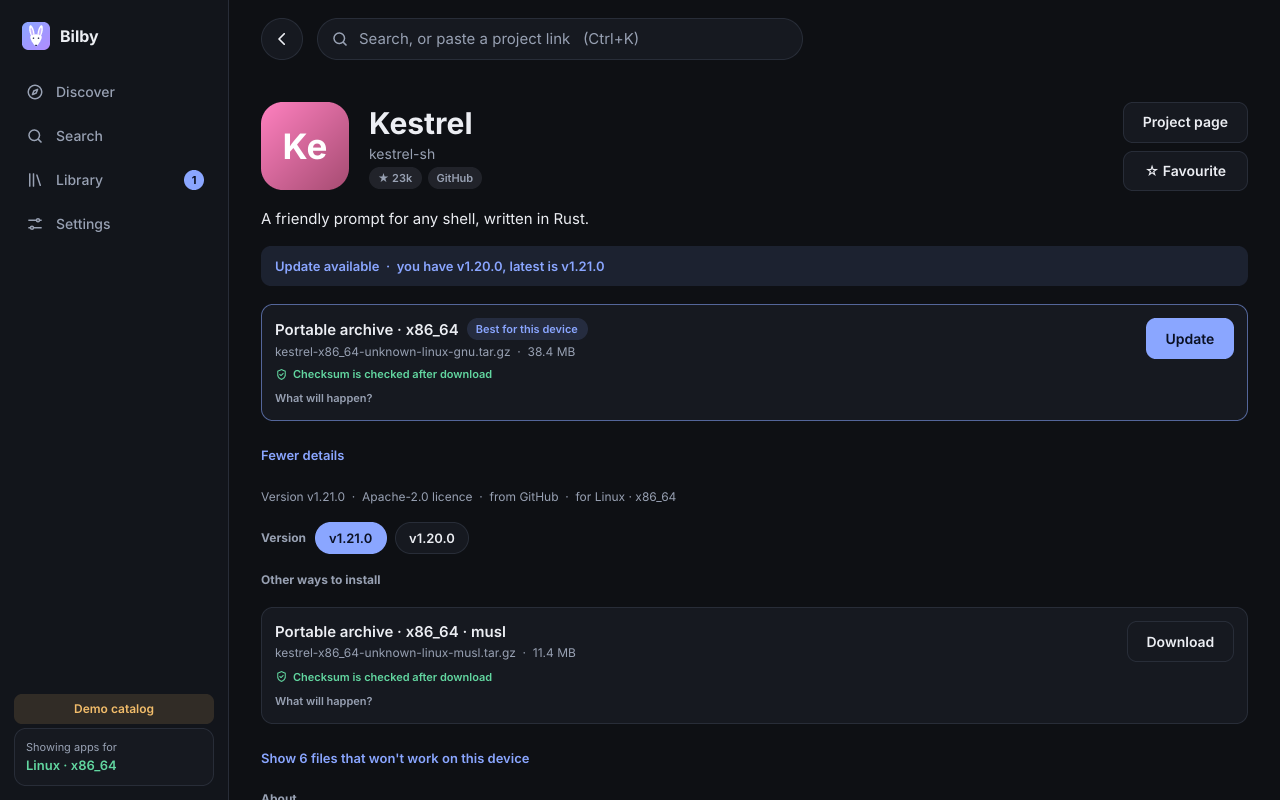
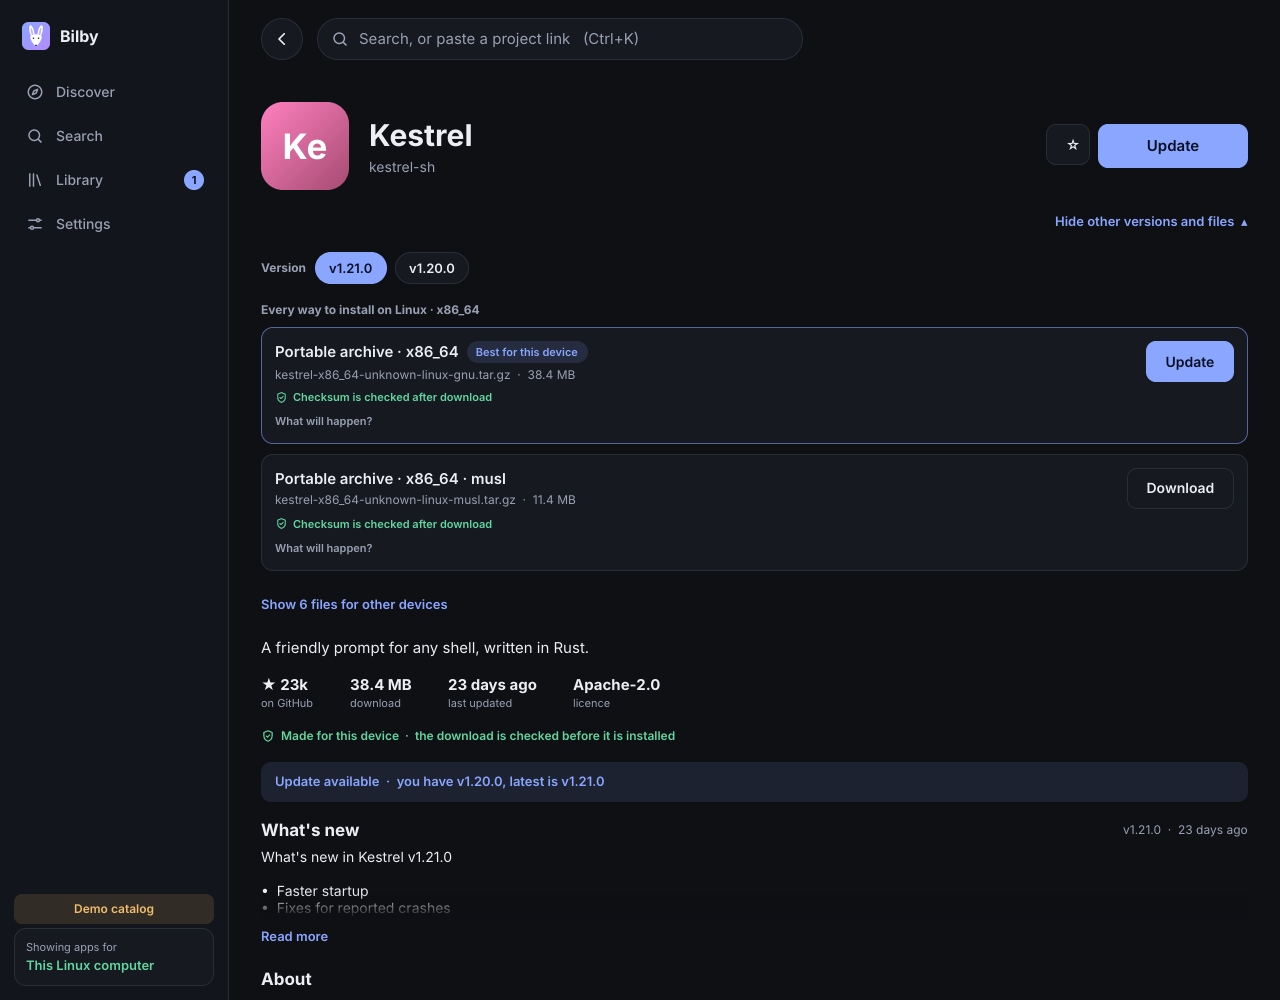
Keep every version and file within reach of the main button
Other versions and files is now a link directly under the Install button instead
of a button at the bottom of the page. It opens the version picker, every way to
install on this device, and the files for other devices, which can now be
downloaded anyway: checked like any download, saved to the downloads folder, and
neither run nor added to the library.

Claude-Session: https://claude.ai/code/session_01HGFb9u9kBDoKGezZG4dEng

diff --git a/crates/app/src/lib.rs b/crates/app/src/lib.rs
@@ -175,6 +175,9 @@ fn tint_for(id: &str) -> slint::Color {
 
 /// Release notes are Markdown, often with HTML mixed in; show them as readable plain
 /// text. Links keep their words, images and tags go, list markers become bullets.
+/// `install-index` values from here up mean "the hidden file numbered index - this".
+const HIDDEN_BASE: i32 = 1000;
+
 /// The opening of a README as plain text: what the project says it is, without the
 /// title (the page already shows it), badges, pictures, tables or code samples.
 fn plain_about(markdown: &str) -> String {
@@ -1096,6 +1099,49 @@ impl App {
         );
     }
 
+    /// Fetch a file the store would not install on this device. It is checked like any
+    /// other download and shown in the downloads folder; nothing is run or recorded.
+    pub fn download_hidden(self: &Arc<Self>, ui: &AppWindow, index: i32) {
+        let store = ui.global::<Store>();
+        if store.get_install_state() == 1 {
+            return;
+        }
+        let asset = {
+            let current = self.current.lock().unwrap();
+            let Some(release) = current.release() else { return };
+            let Some(hidden) = release.hidden.get(index.max(0) as usize) else { return };
+            hidden.asset.clone()
+        };
+        // Past any real option's index, so no install button takes it for its own.
+        store.set_install_index(HIDDEN_BASE + index);
+        store.set_install_state(1);
+        store.set_install_progress(0.0);
+        self.cancel_install.store(false, Ordering::SeqCst);
+        let cancel = self.cancel_install.clone();
+        self.job(
+            move |app| {
+                let http = app.catalog().http();
+                let mut progress = |_: u64, _: Option<u64>| !cancel.load(Ordering::SeqCst);
+                install::execute(
+                    &install::save_only(),
+                    &asset,
+                    http.as_ref(),
+                    &app.dirs,
+                    app.opener.as_ref(),
+                    &mut progress,
+                )
+            },
+            |app, ui, result| {
+                ui.global::<Store>().set_install_state(0);
+                match result {
+                    Ok(outcome) => app.toast(ui, &outcome.message, false),
+                    Err(Error::Cancelled) => app.toast(ui, "Download cancelled", false),
+                    Err(e) => app.toast(ui, &format!("Download failed: {e}"), true),
+                }
+            },
+        );
+    }
+
     pub fn install(self: &Arc<Self>, ui: &AppWindow, index: i32) {
         let store = ui.global::<Store>();
         if store.get_install_state() == 1 {
@@ -1532,6 +1578,7 @@ pub fn build(options: &Options) -> Result<(AppWindow, Arc<App>), Box<dyn std::er
     on!(on_skip_update, |app, ui, id| { app.skip_update(ui, &id) });
     on!(on_toggle_favourite, |app, ui| { app.toggle_favourite(ui) });
     on!(on_launch, |app, ui| { app.launch(ui) });
+    on!(on_download_hidden, |app, ui, index| { app.download_hidden(ui, index) });
     on!(on_set_theme, |app, ui, mode| {
         let name = ["system", "light", "dark"].get(mode as usize).copied().unwrap_or("system");
         app.update_state(ui, |state| state.settings.theme = name.to_string());

diff --git a/crates/app/tests/ui.rs b/crates/app/tests/ui.rs
@@ -248,7 +248,7 @@ fn install_an_appimage_end_to_end() {
 
     // The page leads with the best file; the others are one press away.
     assert!(!s.has("Install AppImage · x86_64"));
-    s.click("More options and details");
+    s.click("Other versions and files");
     s.click("Install AppImage · x86_64");
     assert_eq!(s.store().get_install_state(), 2, "{}", s.store().get_install_message());
     assert!(s.store().get_install_message().starts_with("Checksum verified."));
@@ -341,8 +341,14 @@ fn app_without_a_build_for_this_machine_says_so() {
     assert!(s.store().get_unavailable().contains("Linux"));
     assert_eq!(s.store().get_options().row_count(), 0);
     assert_eq!(s.store().get_hidden().row_count(), 3);
-    s.click("More options and details");
+    s.click("Other versions and files");
     assert!(s.has("Files that won't work on this device"));
+    // They can still be had: saved to the downloads folder, not installed.
+    s.activate("Files that won't work on this device");
+    s.activate("Download anyway: WinspectSetup-0.77-x64.exe");
+    assert!(s.store().get_toast().starts_with("Checksum verified. Saved to "), "{}", s.store().get_toast());
+    assert!(s.dirs.downloads.join("WinspectSetup-0.77-x64.exe").is_file());
+    assert!(s.saved().library.is_empty(), "a file for another device is not an installed app");
 }
 
 #[test]
@@ -378,7 +384,7 @@ fn an_older_version_can_be_chosen_and_installed() {
     assert_eq!(s.store().get_options().row_count(), 2);
 
     assert!(!s.has("Version v1.20.0"), "older versions are not in the way");
-    s.click("More options and details");
+    s.click("Other versions and files");
     s.click("Version v1.20.0");
     assert_eq!(s.store().get_selected_version(), 1);
     assert_eq!(s.store().get_app().version, "v1.20.0");

diff --git a/crates/core/src/catalog.rs b/crates/core/src/catalog.rs
@@ -208,7 +208,11 @@ impl Catalog {
                 let plan = install::plan(asset, &info, &self.platform);
                 options.push(InstallOption { asset: asset.clone(), info, verdict, plan });
             } else {
-                hidden.push(HiddenAsset { name: asset.name.clone(), reason: verdict.note.unwrap_or_default() });
+                hidden.push(HiddenAsset {
+                    name: asset.name.clone(),
+                    reason: verdict.note.unwrap_or_default(),
+                    asset: asset.clone(),
+                });
             }
         }
         options.sort_by(|a, b| b.verdict.score.cmp(&a.verdict.score).then_with(|| a.asset.name.cmp(&b.asset.name)));

diff --git a/crates/core/src/install.rs b/crates/core/src/install.rs
@@ -289,6 +289,17 @@ pub fn open_url(url: &str) -> Result<()> {
     open_with_system(Path::new(url))
 }
 
+/// The plan for a file the store would not install here: fetch it, check it, and show
+/// where it was put. Nothing is run.
+pub fn save_only() -> InstallPlan {
+    InstallPlan {
+        action: Action::Reveal,
+        verb: "Download".to_string(),
+        steps: vec!["Download the file".to_string(), "Show it in your downloads folder".to_string()],
+        command: None,
+    }
+}
+
 /// Carry out `plan` for `asset`. `open` is how files are handed to the system
 /// ([`open_with_system`] in the app; a recorder in tests).
 pub fn execute(

diff --git a/crates/core/src/model.rs b/crates/core/src/model.rs
@@ -189,6 +189,8 @@ impl InstallOption {
 pub struct HiddenAsset {
     pub name: String,
     pub reason: String,
+    /// The file itself, so it can still be downloaded by someone who knows better.
+    pub asset: Asset,
 }
 
 #[derive(Debug, Clone)]
